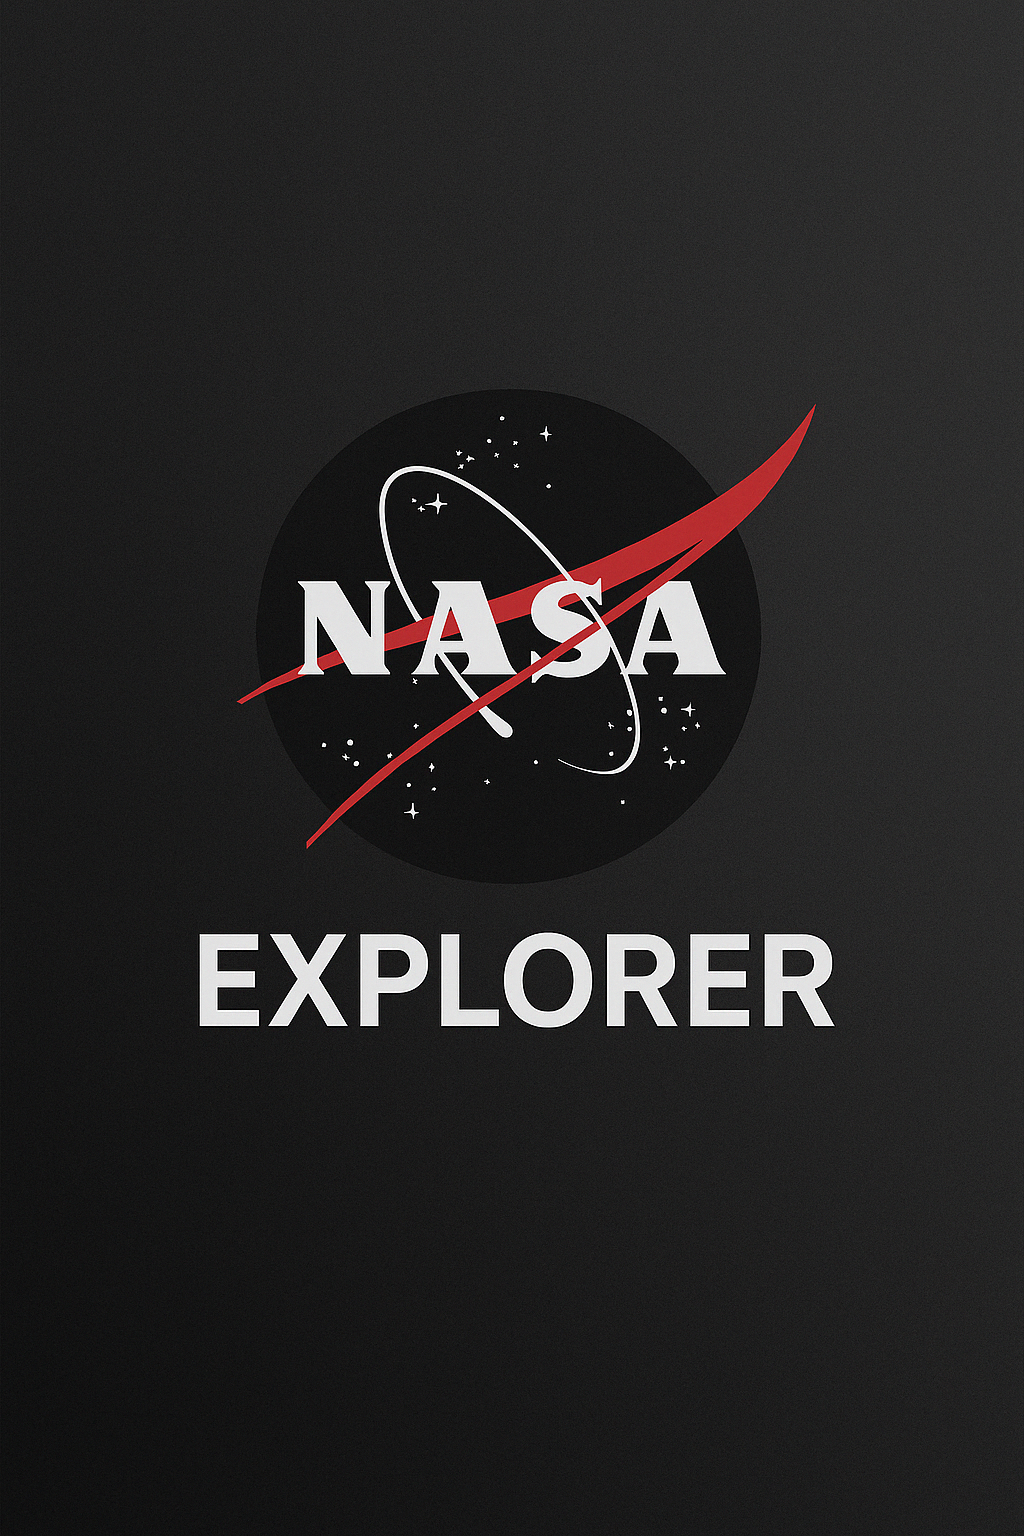
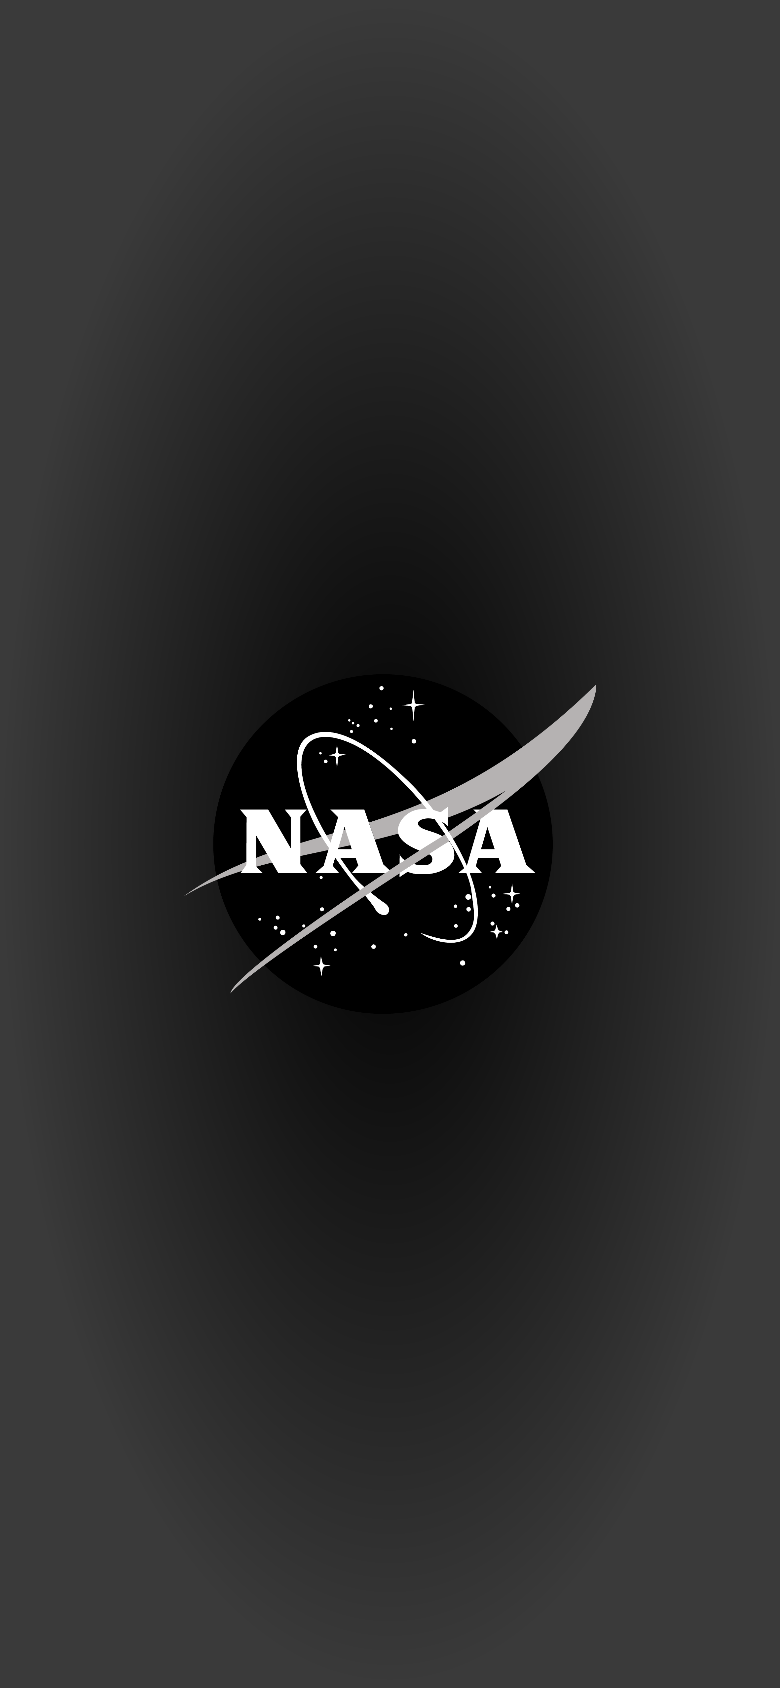
Fix: Reorganización de directorios
Se realizó el ajuste de directorios y el cambio de la imagén de presentación

diff --git a/src/navigation/DrawerNavigation.tsx b/src/navigation/DrawerNavigation.tsx
@@ -4,14 +4,13 @@ import React from "react";
 import { nasaLightTheme } from "../core/themeLight";
 // Módulo de iconos de FontAwesome5
 import { FontAwesome5 } from '@expo/vector-icons';
-import HomeScreen from "../presentation/screens/HomeScreen";
-import AstronomyScreen from "../presentation/screens/AstronomyScreen";
-import MediaScreen from "../presentation/screens/MediaScreen";
-import SettingsScreen from '../presentation/screens/SettingsScreen';
-import NewScreen from "../presentation/screens/NewsScreen";
-import PlanetsScreen from "../presentation/screens/PlanetsScreen";
-import { NavigationContainer } from '@react-navigation/native';
-import MoreExlporerScreen from "../presentation/screens/MoreExplorerScreen";
+import HomeScreen from "../presentation/screens/home/HomeScreen";
+import AstronomyScreen from "../presentation/screens/astronomy/AstronomyScreen";
+import MediaScreen from "../presentation/screens/media/MediaScreen";
+import NewScreen from "../presentation/screens/news/NewsScreen";
+import SettingsScreen from "../presentation/screens/config/SettingsScreen";
+import PlanetsScreen from "../presentation/screens/planets/PlanetsScreen";
+import MoreExlporerScreen from "../presentation/screens/explorer/MoreExplorerScreen";
 
 // Crea una instancia del drawer navigator
 const Drawer = createDrawerNavigator();
@@ -22,7 +21,7 @@ export default function DrawerNavigation() {
       initialRouteName="index"
       screenOptions={{
         headerStyle: {
-          backgroundColor: nasaLightTheme.primary,  // Fondo del encabezado
+          backgroundColor: '#4A4A4A',  
         },
         headerTintColor: nasaLightTheme.onPrimary,  // Color del texto en el encabezado
         drawerStyle: {
@@ -94,7 +93,7 @@ export default function DrawerNavigation() {
 
       {/* Región para ítem de Explorar más */}
       <Drawer.Screen
-        name="exploremore"
+        name="explore"
         component={MoreExlporerScreen}
         options={{
           title: 'Explorar más',
@@ -106,7 +105,7 @@ export default function DrawerNavigation() {
 
       {/* Región para ítem de Configuración */}
       <Drawer.Screen
-        name="settings"
+        name="setting"
         component={SettingsScreen}
         options={{
           title: 'Configuración',

diff --git a/App.tsx b/App.tsx
@@ -1,10 +1,8 @@
 // App.tsx
-import { StatusBar } from 'expo-status-bar';
+import { StatusBar } from 'react-native';
 import { StyleSheet, View } from 'react-native';
 import SplashScreen from './src/components/splashScreen';
 import { useState } from 'react';
-
-
 import { NavigationContainer } from '@react-navigation/native';
 import DrawerNavigation from './src/navigation/DrawerNavigation';
 

diff --git a/src/components/splashScreen.tsx b/src/components/splashScreen.tsx
@@ -17,7 +17,7 @@ const SplashScreen = ({ onFinish }: { onFinish: () => void }) => {
     <View style={styles.container}>
       <StatusBar hidden />
       <Image
-        source={require('../common/assets/ImageNasa.png')}
+        source={require('../common/assets/SplashImage.png')}
         style={styles.image}
         resizeMode="cover"
       />
